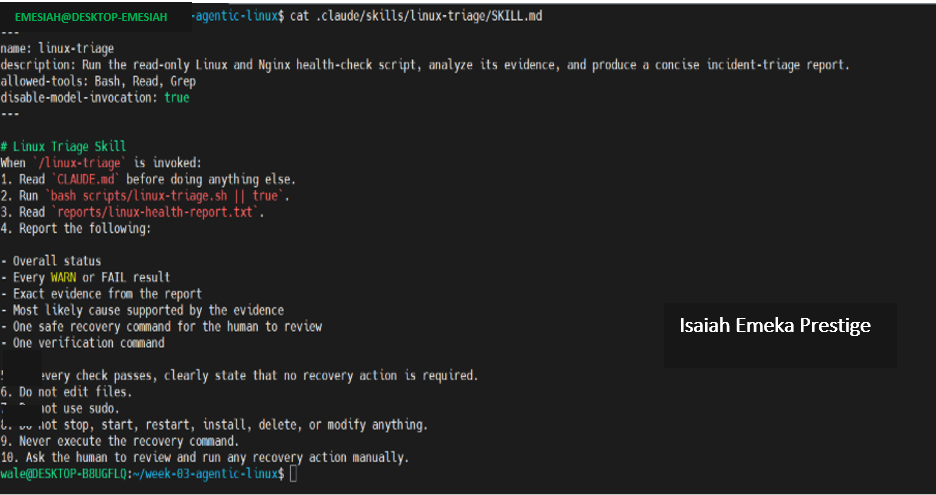
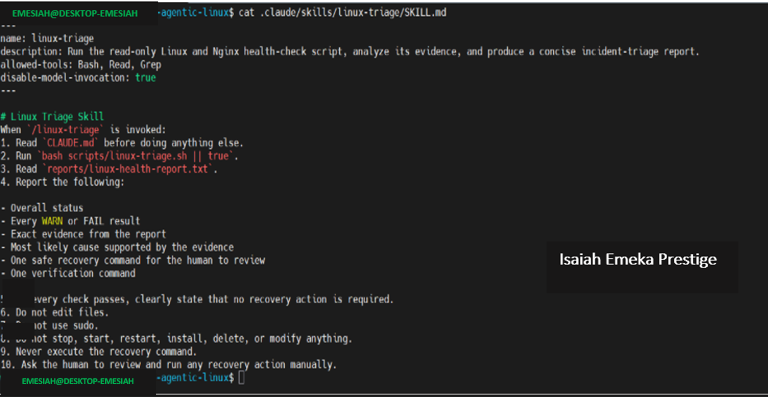
docs: update week 03 and week 04 assignments

diff --git a/README.md b/README.md
@@ -82,8 +82,8 @@ Week 03 → Linux & Bash for DevOps
 Week 04 → Git & GitHub 
 [![Week 04 – Git](./badges/week-04.svg)](./week-04-git-and-github/) 
 
-<!-- Week 05 → DevOps Lifecycle & Agile -->
-<!-- [![Week 05 – Agile](./badges/week-05.svg)](./week-05-devops-lifecycle/) -->
+Week 05 → DevOps Lifecycle & Agile 
+[![Week 05 – Agile](./badges/week-05.svg)](./week-05-devops-lifecycle/) 
 
 <!-- Week 06 → AWS Cloud -->
 <!-- [![Week 06 – AWS](./badges/week-06.svg)](./week-06-aws-cloud/) -->

diff --git a/week-04-git-and-github/assignment-02-codetrack-tracking-staging-committing-deploy-ec2.md b/week-04-git-and-github/assignment-02-codetrack-tracking-staging-committing-deploy-ec2.md
@@ -145,13 +145,13 @@ Install and start Nginx on your EC2 instance, then copy `index.html` and `style.
 
 #### Screenshot 13 — Output of `systemctl status nginx --no-pager` showing Nginx `active (running)`
 
-Add your screenshot here.
+![alt text](week-04-Assignmen-02-screenshot13.png)
 
 ---
 
 #### Screenshot 14 — Output of `curl -I http://localhost` showing `HTTP/1.1 200 OK`
 
-Add your screenshot here.
+![alt text](week-04-Assignmen-02-screenshot14.png)
 
 ---
 

diff --git a/week-04-git-and-github/assignment-06-ai-assisted-git-safety-net.md b/week-04-git-and-github/assignment-06-ai-assisted-git-safety-net.md
@@ -197,7 +197,6 @@ Push your branch and open a real Pull Request, using `/pr-ready`'s drafted title
 ### Evidence
 
 #### Screenshot 9 — Your Pull Request showing the base repository is your own fork, plus the title and description, with the `/pr-ready` draft visible for comparison (paste it in the PR conversation or your notes below)
-
 ![Screenshot 9](week-04-Assignmen-06-screenshot9.png)
 ---
 

diff --git a/week-03-linux-and-bash-for-devops/assignment-06-ai-assisted-linux-health-check.md b/week-03-linux-and-bash-for-devops/assignment-06-ai-assisted-linux-health-check.md
@@ -261,7 +261,7 @@ Turn the Bash script into a reusable, manually invoked Agentic AI workflow.
 
 #### Screenshot 11 — `SKILL.md` showing the frontmatter, allowed tool restrictions, and safety rules
 
-![alt text](week-03-Assignment-06-screenshot11.png)
+![alt text](screenshots/week-03-Assignment-06-screenshot11.png)
 
 ---
 
